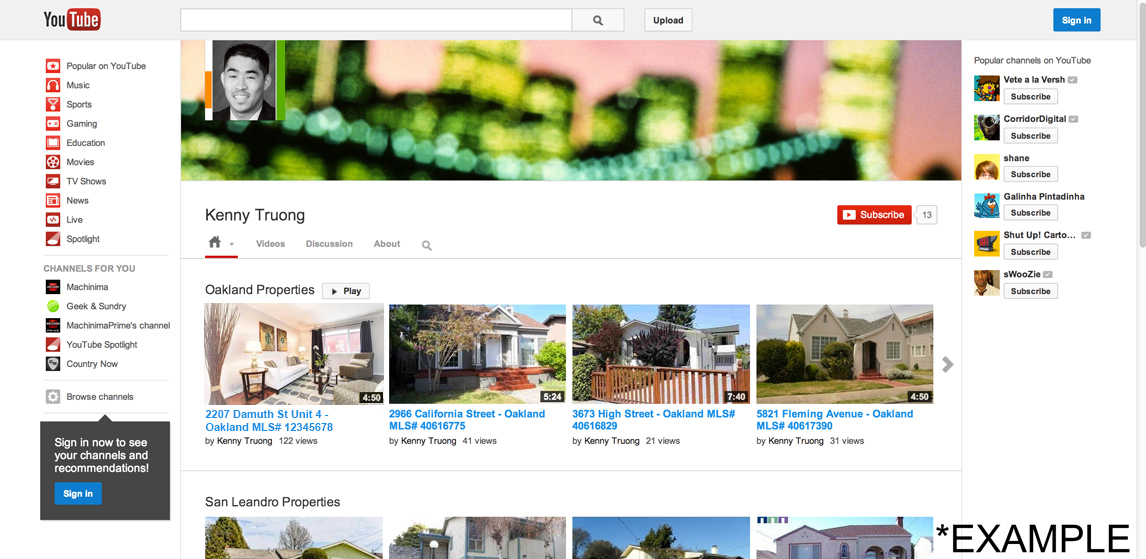
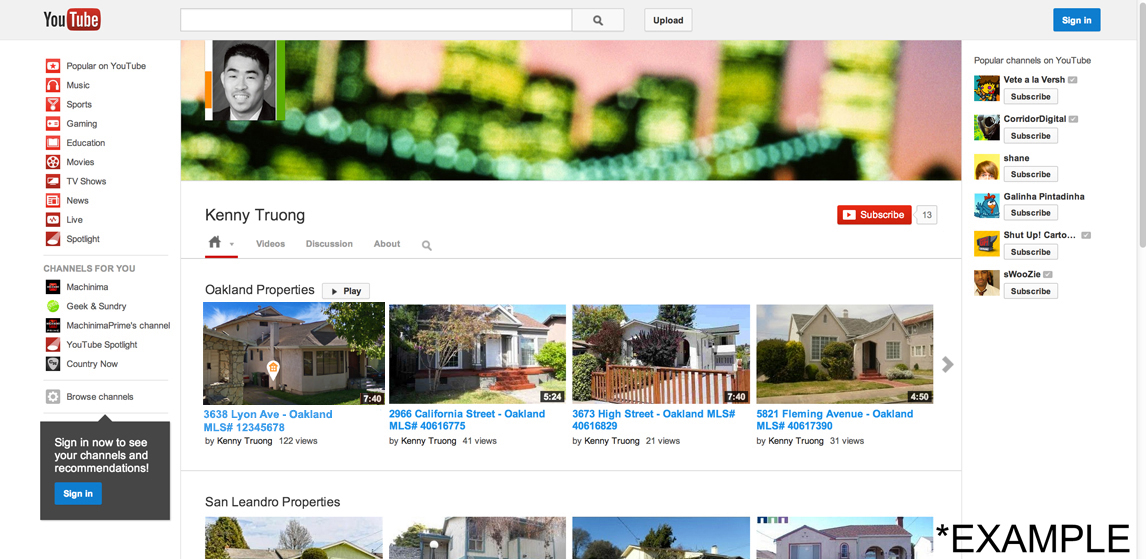
edit

Changed region(s): [[0.1527, 0.517, 0.336, 0.7907]]

diff --git a/index.php b/index.php
@@ -188,12 +188,14 @@
 									<article class="item">
 										<a href="images/comp1.jpg" class="image full fancybox"><img src="images/comp1.jpg" alt="" /></a>
 										<header>
-										<h3><strong>2028 Damuth St - Unit 2</strong></h3>
+										<h3><strong>3520 Lyon Ave - Triplex</strong></h3>
 										<ul>
-											<li>2 Bed - 1.5 Bath</li>
-											<li>891 Sq Ft -  0 Lot</li>
-											<li>List: 5/14/13 - Pending: 5/23/13</li>
-											<li>List: $298,888 - SOLD $330,000</li>
+											<li>#1 2 Bed - 1 Bath</li>
+											<li>#2 1 Bed - 1 Bath</li>
+											<li>#3 1 Bed - 1 Bath</li>
+											<li>1,662 Sq Ft -  4,200 Lot</li>
+											<li>List: 8/24/13 - Pending: 8/28/13</li>
+											<li>List: $349,500 - SOLD $359,900</li>
 										</ul>
 									</article>
 								</div>
@@ -201,12 +203,12 @@
 									<article class="item">
 										<a href="images/comp2.jpg" class="image full fancybox"><img src="images/comp2.jpg" alt="" /></a>
 										<header>
-										<h3><strong>2207 Damuth St - Unit 3</strong></h3>
+										<h3><strong>3549 Custer St</strong></h3>
 										<ul>
-											<li>2 Bed - 1.5 Bath</li>
-											<li>905 Sq Ft - 0 Lot</li>
-											<li>List: 2/6/13 - Pending: 3/24/13</li>
-											<li>List: $289,000 - SOLD $289,000</li>
+											<li>4 Bed - 2 Bath</li>
+											<li>1293 Sq Ft - 3,000 Lot</li>
+											<li>List: 4/29/13 - Pending: 6/28/13</li>
+											<li>List: $308,000 - SOLD $325,000</li>
 										</ul>
 									</article>
 								</div>
@@ -214,12 +216,12 @@
 									<article class="item">
 										<a href="images/comp3.jpg" class="image full fancybox"><img src="images/comp3.jpg" alt="" /></a>
 										<header>
-										<h3><strong>3610 Laguna Ave</strong></h3>
+										<h3><strong>3542 Davis St</strong></h3>
 										<ul>
-											<li>2 Bed - 1 Bath</li>
-											<li>727 Sq Ft - 0 Lot</li>
-											<li>List: 6/26/13 - Pending: 7/2/13</li>
-											<li>List: $269,000 - SOLD $320,000</li>
+											<li>3 Bed - 2 Bath</li>
+											<li>768 Sq Ft - 2,700 Lot</li>
+											<li>List: 6/22/13 - Pending: 8/13/13</li>
+											<li>List: $210,000 - SOLD $230,000</li>
 										</ul>
 									</article>
 								</div>
